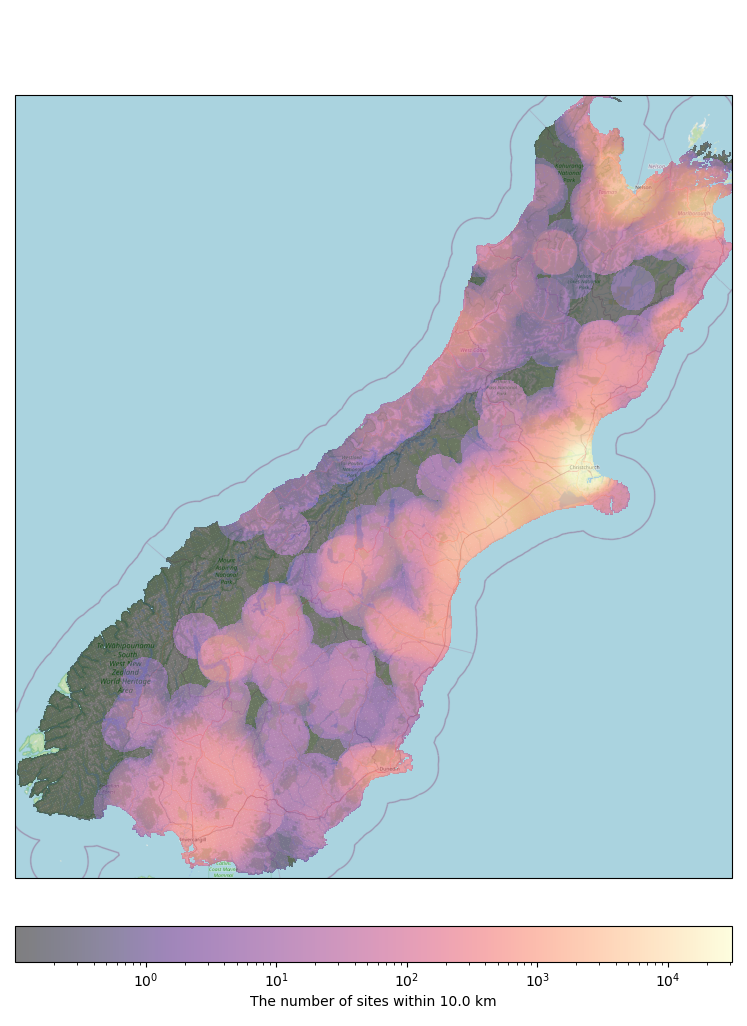
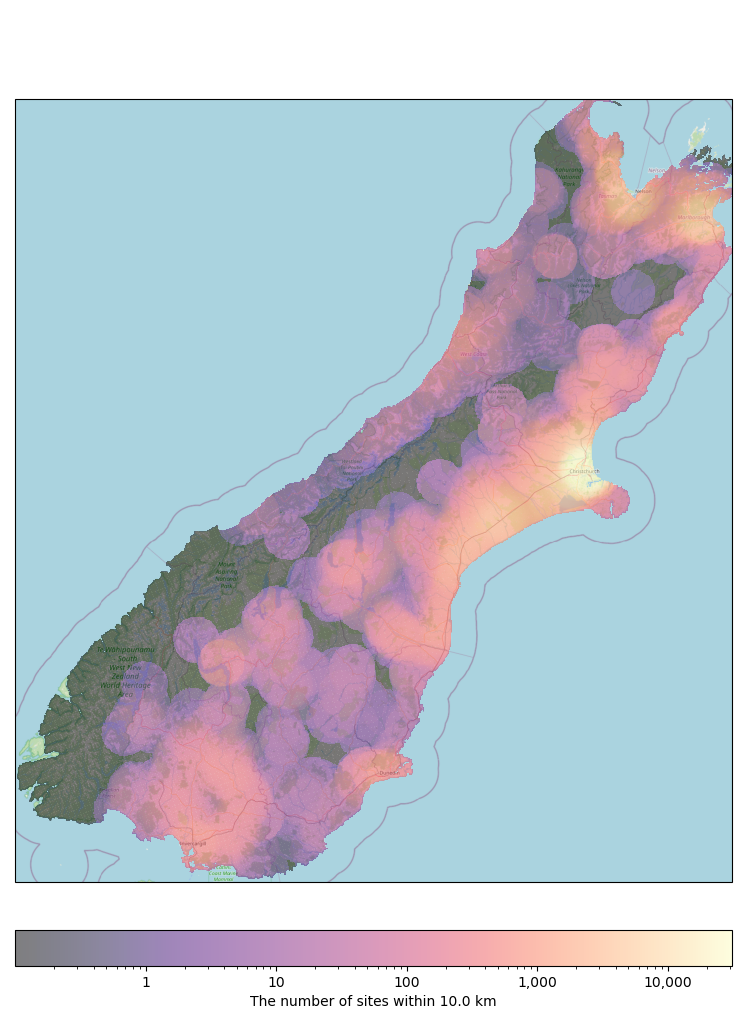
manage review comments on figures

diff --git a/build_dataset/update_technial_note/update_tech_note.py b/build_dataset/update_technial_note/update_tech_note.py
@@ -14,7 +14,7 @@ docs_build_dir = Path(__file__).parents[2].joinpath('docs_build')
 assert docs_build_dir.exists(), f'{docs_build_dir} does not exist. should not get here'
 
 
-def update_tech_note(wl_data, metadata, base_outdir=docs_build_dir):
+def update_tech_note(wl_data, metadata, base_outdir=docs_build_dir, figs_only=False):
     """
     Update the technical note with the latest data statistics
     :param wl_data:
@@ -27,33 +27,40 @@ def update_tech_note(wl_data, metadata, base_outdir=docs_build_dir):
     base_outdir.joinpath('_static').mkdir(exist_ok=True)
     with open(base_outdir.joinpath('last_updated.rst'), 'w') as f:
         f.write(f':Data Last updated: {datetime.date.today().isoformat()}')
+    if not figs_only:
+        print('updating tables')
+        # depth to water statistics
+        hist_sd(outdir=base_outdir, wd=wl_data, md=metadata)
+        exceedance_prob(outdir=base_outdir, wd=wl_data, md=metadata)
 
-    # depth to water statistics
-    hist_sd(outdir=base_outdir, wd=wl_data, md=metadata)
-    exceedance_prob(outdir=base_outdir, wd=wl_data, md=metadata)
+        # summary data
+        overview_table, by_source_table = get_data_stats(wl_data, metadata)
+        for k in overview_table.index:
+            if pd.api.types.is_integer(overview_table.loc[k]):
+                overview_table.loc[k] = f'{overview_table.loc[k]:,d}'
+            elif pd.api.types.is_float(overview_table.loc[k]):
+                overview_table.loc[k] = f'{overview_table.loc[k]:,.2f}'
 
-    # summary data
-    overview_table, by_source_table = get_data_stats(wl_data, metadata)
-    for k in overview_table.index:
-        if pd.api.types.is_integer(overview_table.loc[k]):
-            overview_table.loc[k] = f'{overview_table.loc[k]:,d}'
-        elif pd.api.types.is_float(overview_table.loc[k]):
-            overview_table.loc[k] = f'{overview_table.loc[k]:,.2f}'
-
-    write_rst_table_with_tabulate(overview_table, base_outdir.joinpath('tables/full_dataset_summary.rst'),
-                                  'Overview of the dataset')
-    write_rst_table_with_tabulate(by_source_table, base_outdir.joinpath('tables/by_source_summary.rst'),
-                                  'Data summary by source')
+        write_rst_table_with_tabulate(overview_table, base_outdir.joinpath('tables/full_dataset_summary.rst'),
+                                      'Overview of the dataset')
+        write_rst_table_with_tabulate(by_source_table, base_outdir.joinpath('tables/by_source_summary.rst'),
+                                      'Data summary by source')
+    print('creating running totals')
     running_totals = get_running_totals(wl_data)
     for nm, fig in running_totals.items():
         fig.savefig(base_outdir.joinpath('_static', f'{nm}.png'))
         plt.close(fig)
+    print('saved running totals, now creating density and points in dist')
 
-    density_calc_sites(metadata)
+    if not figs_only:
+        density_calc_sites(metadata)
+        npoints_in_dist_calc_sites(metadata)
+
     plot_density()
 
-    npoints_in_dist_calc_sites(metadata)
+    print('saved density, now creating points in dist')
     plot_points_in_dist()
+    print('saved points in dist')
 
 
 if __name__ == '__main__':
@@ -61,6 +68,7 @@ if __name__ == '__main__':
     from komanawa.nz_depth_to_water.get_data import get_nz_depth_to_water
 
     water_level_data, metadata = get_nz_depth_to_water()
-    update_tech_note(water_level_data, metadata)
+    print('update tech note')
+    update_tech_note(water_level_data, metadata, figs_only=True)
 
     pass

diff --git a/build_dataset/update_technial_note/data_stats.py b/build_dataset/update_technial_note/data_stats.py
@@ -13,6 +13,7 @@ import matplotlib.pyplot as plt
 from pathlib import Path
 import warnings
 
+from matplotlib.ticker import StrMethodFormatter
 
 def load_data():
     wd = pd.read_hdf(project_dir.joinpath('Data/gwl_data/final_water_data.hdf'), 'wl_store_key')
@@ -208,14 +209,15 @@ def get_running_totals(wd):
     outfigs = {}
     fig, ax = plt.subplots(figsize=(10, 6))
     # plot the cumulative number of records
-    ax.plot(cumulative_n_records['year'], cumulative_n_records['depth_to_water'] * 1e-6, label='Cumulative n records',
+    ax.plot(cumulative_n_records['year'], cumulative_n_records['depth_to_water'] * 1e-6, label='Cumulative N records',
             ls='--',
             color='b')
     ax2 = ax.twinx()
-    ax2.plot(cumulative_n_sites['year'], cumulative_n_sites['site_name'], label='Cumulative n sites', ls='-', color='r')
+    ax2.plot(cumulative_n_sites['year'], cumulative_n_sites['site_name'], label='Cumulative N sites', ls='-', color='r')
     ax.set_xlabel('Year')
-    ax.set_ylabel('Cumulative n records (millions)')
-    ax2.set_ylabel('Cumulative n sites')
+    ax.set_ylabel('Cumulative N records (millions)')
+    ax2.set_ylabel('Cumulative N sites')
+    ax2.yaxis.set_major_formatter(StrMethodFormatter('{x:,.0f}'))
     handles, labels = ax.get_legend_handles_labels()
     handles2, labels2 = ax2.get_legend_handles_labels()
     ax.legend(handles + handles2, labels + labels2, loc='upper left')
@@ -239,8 +241,9 @@ def get_running_totals(wd):
     ax.set_xlabel('Year')
     ax.set_xlim(1940, years[-1] + 5)
     ax.set_ylabel('Number of records (millions)')
+    ax.yaxis.set_major_formatter(StrMethodFormatter('{x:,.0f}'))
     ax.set_title('Cumulative number of records per source')
-    ax.legend()
+    ax.legend(loc='upper left')
     fig.tight_layout()
     outfigs['cumulative_n_records_per_source'] = fig
 
@@ -254,8 +257,9 @@ def get_running_totals(wd):
         prev += source_data['unique_sites']
     ax.set_xlabel('Year')
     ax.set_ylabel('Number of sites')
+    ax.yaxis.set_major_formatter(StrMethodFormatter('{x:,.0f}'))
     ax.set_title('Cumulative number of sites per source')
-    ax.legend()
+    ax.legend(loc='upper left')
     ax.set_xlim(1940, years[-1] + 5)
     fig.tight_layout()
     outfigs['cumulative_n_sites_per_source'] = fig

diff --git a/src/komanawa/nz_depth_to_water/density_grid.py b/src/komanawa/nz_depth_to_water/density_grid.py
@@ -5,7 +5,7 @@ on: 7/15/24
 from pathlib import Path
 import numpy as np
 import matplotlib.pyplot as plt
-
+import matplotlib.ticker as ticker
 
 class DensityGrid():
     shape = (1476, 1003)
@@ -112,8 +112,13 @@ class DensityGrid():
                                  cmap=cmap, vmin=vmin, vmax=vmax,
                                  alpha=0.5, edgecolors=edgecolors, linewidth=linewidth, antialiased=True
                                  )
+        def fmt(x, pos):
+            if x<1:
+                return f'{x:.2f}'
+            else:
+                return f'{x:,.0f}'
 
         fig.colorbar(temp, ax=ax, orientation='horizontal', fraction=0.05, pad=0.05,
-                     label=cbarlab)
+                     label=cbarlab, format=ticker.FuncFormatter(fmt))
         fig.tight_layout()
         return fig, ax

diff --git a/build_dataset/update_technial_note/statistical_measures_of_dwt_data.py b/build_dataset/update_technial_note/statistical_measures_of_dwt_data.py
@@ -414,8 +414,7 @@ def plot_density():
 
         for island in ['both', 'n', 's']:
             fig, ax = dg.plot_density(data / 1000, island, vmin=0.1, vmax=None, log=True,
-                                      cbarlab=f'Distance to nearest {npoints} sites (km)')
-            plt.show()
+                                      cbarlab=f'Distance to nearest {npoints} site(s) (km)')
             fig.savefig(figdir.joinpath(f'data_coverage_{npoints}{island}.png'))
 
 

diff --git a/docs_build/supporting_docs/Technial_note.rst b/docs_build/supporting_docs/Technial_note.rst
@@ -60,26 +60,36 @@ The data was processed using Python. The scripts used to process the data are av
 The systematic approach to the data processing was as follows:
 
 - Ingestion and Preliminary Cleaning
+
     - Individual scripts were developed for each council to cater to the unique formats of the datasets provided.
     - GWL data, alongside metadata, were ingested from two primary sources: direct council submissions and the Tethys platform, accessed via a Python API call.
     - Preliminary cleaning involved standardising data formats, renaming columns for consistency, and excising superfluous columns.
+
 - Data Standardisation and Transformation
+
     - The data was processed to ensure the presence of both depth-to-water and elevation measurements. In instances where elevation data was absent, LiDAR data (Sourced from the LINZ Data Service and licensed for reuse under the CC BY 4.0 licence) was utilised to ascertain site elevation.
     - Anomalies such as negative values or readings beyond expected ranges were examined and rectified. Erroneous not an number (NaN) values were also purged from the dataset.
     - All spatial data were transformed into the NZGD 2000 Transverse Mercator projection and NZVD2016 vertical datum.
     - The data was resampled to a consistent temporal resolution, ergo standardised to daily intervals.
     - The data was checked for any duplicates and these were removed.
+
 - Metadata Synthesis and Alignment
+
     - Metadata processing paralleled the data cleaning steps, with additional emphasis on ensuring alignment between site names in the metadata and the GWL data.
     - The metadata schema encapsulated a comprehensive array of fields, ranging from well names and depths to spatial coordinates and screening details.
     - Groundwater elevations were derived from ground elevation plus collar height (where available) minus depth to water, except for instances where councils provided elevations in NZVD2016.
+
 - Data Aggregation and Quality Assurance
+
     - The processed data from various sources were coalesced into a singular dataset. This aggregation involved strategic merging and deduplication, governed by predefined rules to ensure data integrity.
     - Quality control measures, including data and metadata checks, were instituted to uphold accuracy and reliability.
+
 - Storing and Accessing Processed Data
     - The processed GWL data and metadata were systematically stored in an HDF5 datastore, facilitating ease of access and analysis.
     - Provisions were made to recalculate and update the stored data as necessary, ensuring the database can remain current and reflective of the most recent submissions.
+
 - Assumptions and Usage Considerations
+
     - A fundamental assumption is that depth-to-groundwater measurements below the ground surface are positive, with negative readings indicative of artesian conditions. This necessitated sign adjustments and validation against council records.
     - In cases where well depth information was unavailable, wells were presumed shallow rather than being excluded from the dataset; however the well depth is still flagged as a NaN value.
     - Specific regional peculiarities, such as the assumed + 100 m offset for coastal groundwater elevations provided by the Otago Regional Council, were corrected to NZVD2016.
@@ -90,23 +100,25 @@ Statistical Analysis of Water Table Variation
 As previously noted, this National Depth to Water Dataset was compiled to support the Future Coasts Aotearoa research programme, where it is used following additional processing to produce maps of steady-state depth to water (DTW) probability at a national scale. The ultimate goal is the identification of areas at risk of groundwater inundation under relative sea-level rise. As noted, the dataset is also available for other uses, and we encourage researchers to use the dataset for a wide range of applications.
 As an example of some of the utility of this dataset, we present some simple statistical analyses below to uncover any prominent traits and generally describe the data. The steps were:
 
--  Categorisation by Depth:
-    - The dataset was divided into three depth categories:
-        - Category 1: Sites with depths less than 10 meters.
-        - Category 2: Sites with depths between 10 and 30 meters.
-        - Category 3: Sites with depths greater than 30 meters.
+-  Categorisation by Depth. The dataset was divided into three depth categories:
+
+    - Category 1: Sites with depths less than 10 meters.
+    - Category 2: Sites with depths between 10 and 30 meters.
+    - Category 3: Sites with depths greater than 30 meters.
 
 - Sub-setting by Number of Readings:
+
     - Only sites with more than 30 readings were included. This threshold was chosen as a rule of thumb to ensure a reliable calculation of the standard deviation.
 
-- Statistical Calculations:
-    - For each site in the subset, the following statistical measures were computed:
-        - Mean: The average depth to water.
-        - Standard Deviation: A measure of the variation in water levels.
-        - Minimum: The lowest recorded water level.
-        - Maximum: The highest recorded water level.
+- Statistical Calculations. For each site in the subset, the following statistical measures were computed:
+
+    - Mean: The average depth to water.
+    - Standard Deviation: A measure of the variation in water levels.
+    - Minimum: The lowest recorded water level.
+    - Maximum: The highest recorded water level.
 
 - Grouping by Mean DTW:
+
     - The categories were analysed prescribed with breakpoints of: 0.1, 0.5, 1, 1.5, 2, 3, 5, 10, 15, 20, 30, 50, 75, 100 meters (while these breakpoints are for illustrative purposes only, the shallower categories correspond with infrastructure and building foundations assessed in the Future Coasts Aotearoa research programme).
     - The data was further grouped by the mean DTW to analyse combined statistics across different groups. This grouping allows for a comparison of water level characteristics across sites with similar mean DTW values.
 
@@ -154,6 +166,7 @@ As with any dataset, there are uncertainties in the data. The primary sources of
 
     - Measurement method variability: Different councils and organisations use different methods to measure groundwater levels, which can lead to variability in the data.
     - Data quality inconsistencies: The quality of data and associated metadata varies significantly across different sources. This includes:
+
         - Potential data entry errors from original sources
         - Varying quality of metadata provided with the data
         - Differences in measurement data quality (e.g., data collected by drillers immediately upon well completion versus as part of a regular monitoring programme)
@@ -198,6 +211,7 @@ Potential Uses of the Dataset
 -------------------------------
 
 Beyond the original scope we see the dataset as having a wide range of potential uses, including but not limited to:
+
     - Consent applications and engineering design: Provides historical context across regions. Supports consistent decision-making for regulators and developers.
     - Model validation and research: Enables cross-regional studies and comparison. Improves national predictive models.
     - Climate change and hazard assessments: Allows analysis of long-term trends nationwide. Aids in identifying groundwater-related risks.
@@ -237,6 +251,7 @@ Additionally, we would like to commend the NZGD for their work in providing a na
 #. Included a field to specify whether measurements at a point are relative to the average surrounding land surface or taken in foundation excavations.
 #. Include and possibly mandate the provision of GPS elevation data for the depth to water measuring point and/or a measured distance between the measuring point and the general surrounding ground surface (e.g. depth of foundation excavation).
 #. As discussed above the NZGD would also benefit from:
+
     #. A public API for data access.
     #. A publicly visible mechanism for users to report issues, inconsistencies, and concerns with the data.
 
@@ -296,14 +311,22 @@ This work was made possible by the Future Coasts Aotearoa programme, funded by t
 References
 =============
 Baddock E, 2019. Water Level Field Measurement Standard Version: 3.0.0. National Environmental Monitoring Standard. Date of Issue: July 2019
+
 GNS Science. (2022). National Groundwater Monitoring Programme (NGMP) [Data set]. GNS Science.
+
 Hills Laboratories. 2024. Hilltop Software [Computer software].
+
 Kittridge M. 2023. Tethys: A Python package for accessing geospatial time series data (Version 4.5.15) [Computer software]. https://github.com/tethys-ts/tethysts
+
 New Zealand Geotechnical Database. (n.d.). Retrieved [3-9-2024], from https://www.nzgd.org.nz/
+
 National Institute of Water and Atmospheric Research (2021). Future Coasts Aotearoa Project Outline. National Institute of Water and Atmospheric Research.
+
 Parliamentary Commissioner for the Environment. 2019. Focusing Aotearoa New Zealand’s
 environmental reporting system. November 2019. Wellington, New Zealand: Parliamentary
+
 Reinecke R., Wachholz, A., Mehl, S., Foglia, L., Niemann, C., & Döll, P. 2020. Importance of Spatial Resolution in Global Groundwater Modeling. Groundwater, 58(3), 363–376. https://doi.org/10.1111/gwat.12996
+
 World Meteorological Organization. 2023. State of Global Water Resources report 2022 (WMO-No. 1333). WMO.
 
 

diff --git a/docs_build/last_updated.rst b/docs_build/last_updated.rst
@@ -1,1 +1,1 @@
-:Data Last updated: 2024-07-16
+:Data Last updated: 2024-09-19
